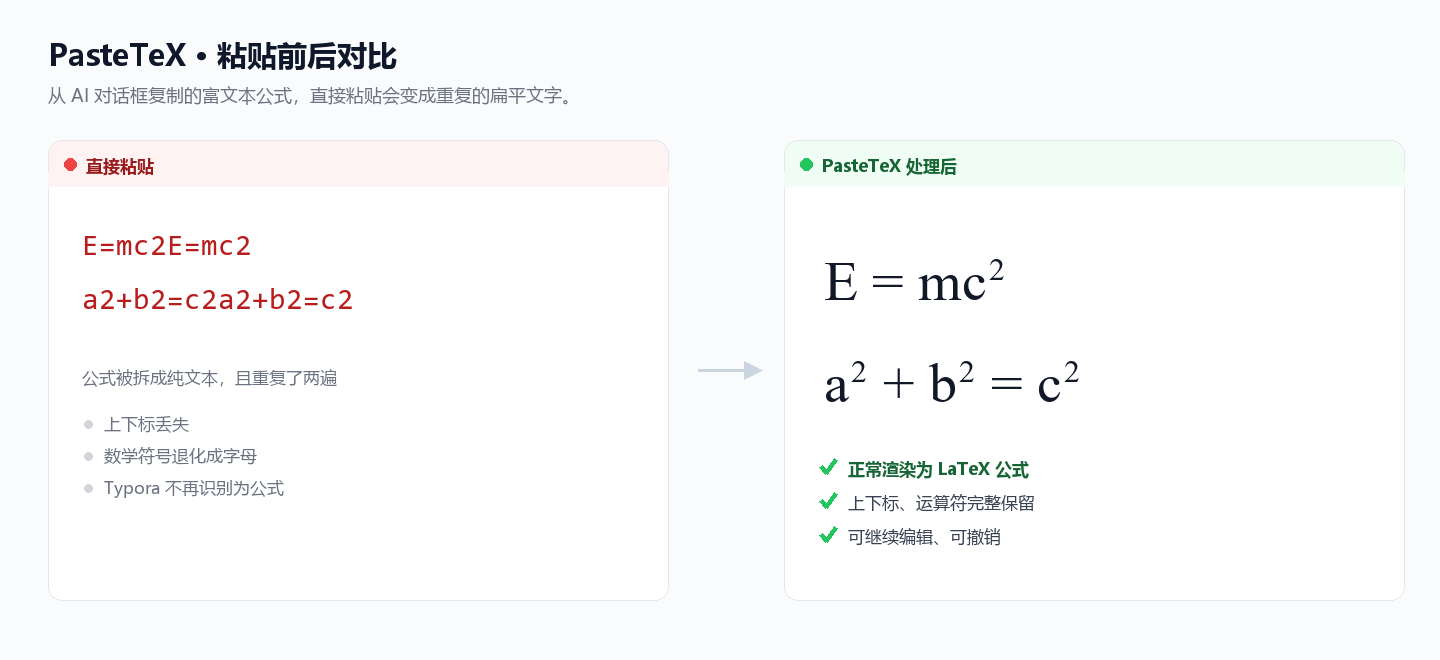
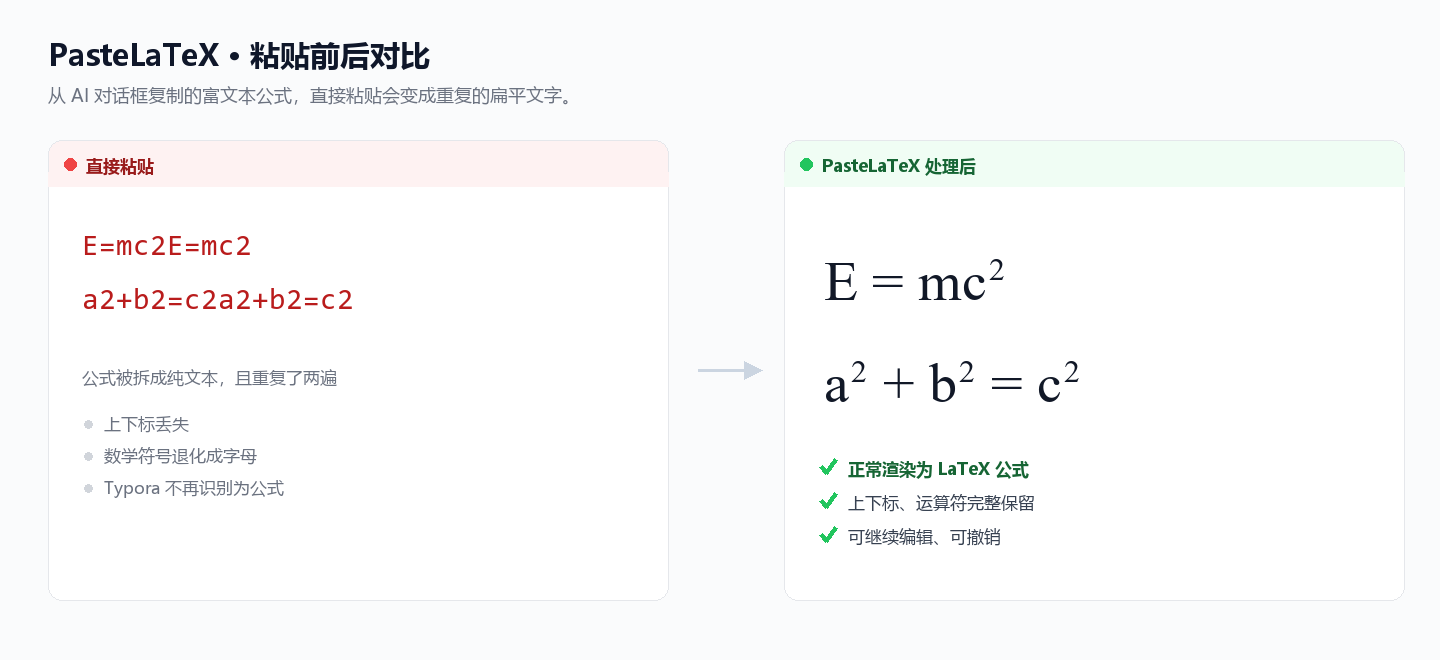
refactor!: rename plugin id to pastelatex (v0.3.0)

Changed region(s): [[0.0938, 0.0606, 0.3125, 0.1212], [0.5938, 0.2424, 0.6875, 0.2727]]

diff --git a/pastelatex/README.md b/pastelatex/README.md
@@ -1,4 +1,4 @@
-# pastetex  v0.2.0
+# pastelatex  v0.3.0
 
 Typora 插件：把从 AI 聊天框复制出来的公式（KaTeX **MathML**，通常没有 `<annotation>`）转换成 Typora 能渲染的 `$...$`。
 
@@ -56,7 +56,7 @@ DeepSeek / ChatGPT 网页端复制出的 HTML 里，公式是：
 
 安装位置：
 
-    %APPDATA%\Typora\plugins\plugins\pastetex\
+    %APPDATA%\Typora\plugins\plugins\pastelatex\
     %APPDATA%\Typora\plugins\settings\plugins.json
 
 重启 Typora 生效。
